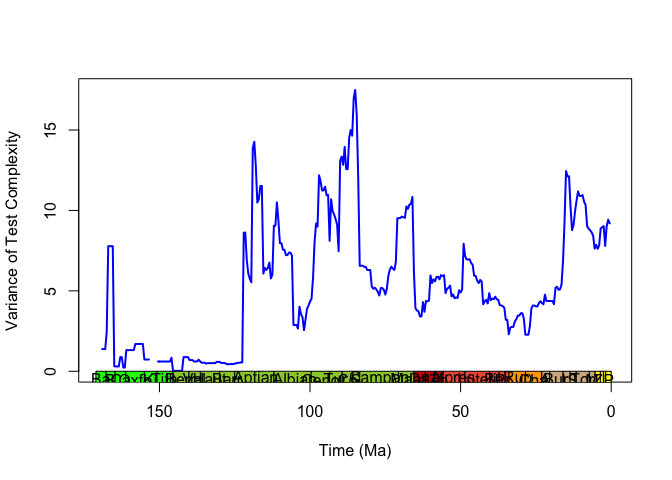
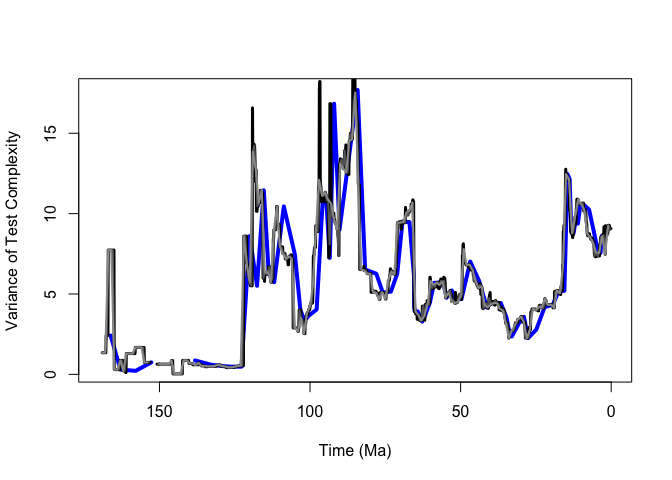
Uploading various contributions to the full range test complexity file inc. several looks at variance vs. something else

diff --git a/EntireRange.md b/EntireRange.md
@@ -225,6 +225,7 @@ So, back to test complexity then.
 ## Test Complexity
 
 ```r
+foram.dataframe->morph
  for(i in inc){
     decostand(morph[,i],method= 'standardize',margin=2,na.rm=T)->morph[,i]
    abs(morph[,i])->morph[,i]
@@ -250,7 +251,7 @@ Test complexity is constructed by standardizing the values within each parameter
 
 
 ```r
-time.var(test.complex.index,morph$origin,morph$extin,.5)->temp
+time.var(test.complex.index,morph$origin,morph$extin,timeresolution.dataframe)->temp
 plot(0,0,
      type='n',
      xlim=c(170,0),
@@ -259,9 +260,251 @@ plot(0,0,
      ylim=c(min(temp[,2],na.rm=T),
             max(temp[,2],na.rm=T))
   )
-  lines(temp[,1],temp[,2],lwd=2,col='blue')
-geotimescale(-2,0)
+  lines(temp[,1],temp[,2],lwd=4,col='blue')
+  time.var(test.complex.index,morph$origin,morph$extin,.1)->temp
+    lines(temp[,1],temp[,2],lwd=3,col='black')
+  time.var(test.complex.index,morph$origin,morph$extin,.5)->temp
+    lines(temp[,1],temp[,2],lwd=2,col='grey40')
+      time.var(test.complex.index,morph$origin,morph$extin,1)->temp
+    lines(temp[,1],temp[,2],lwd=2,col='grey60')
 ```
 
 ![](EntireRange_files/figure-html/variance-1.png)<!-- -->
+
+Trends in the variance are robust across different binning schemes, particularily in the Cenozoic. There appears to be no substantive difference between a biostratigraphic binning scheme (Fraass et al., 2015) or a million year binning scheme (0.1, 0.5, 1 myr tested).
+
+
+```r
+plot(p[1:84],time.var(test.complex.index,morph$origin,morph$extin,timeresolution.dataframe)[1:84,2],
+     xlab="p",ylab="Variance in Test Complexity")
+```
+
+![](EntireRange_files/figure-html/comparison variance extinction-1.png)<!-- -->
+
+```r
+cor.test(p[1:84],time.var(test.complex.index,morph$origin,morph$extin,timeresolution.dataframe)[1:84,2])
+```
+
+```
+## 
+## 	Pearson's product-moment correlation
+## 
+## data:  p[1:84] and time.var(test.complex.index, morph$origin, morph$extin, timeresolution.dataframe)[1:84, p[1:84] and     2]
+## t = -0.52696, df = 82, p-value = 0.5996
+## alternative hypothesis: true correlation is not equal to 0
+## 95 percent confidence interval:
+##  -0.2691373  0.1582722
+## sample estimates:
+##         cor 
+## -0.05809431
+```
+
+```r
+plot(q.family[1:84],time.var(test.complex.index,morph$origin,morph$extin,timeresolution.dataframe)[1:84,2],
+     xlab="q",ylab="Variance in Test Complexity")
+```
+
+![](EntireRange_files/figure-html/comparison variance extinction-2.png)<!-- -->
+
+```r
+cor.test(q[1:84],time.var(test.complex.index,morph$origin,morph$extin,timeresolution.dataframe)[1:84,2])
+```
+
+```
+## 
+## 	Pearson's product-moment correlation
+## 
+## data:  q[1:84] and time.var(test.complex.index, morph$origin, morph$extin, timeresolution.dataframe)[1:84, q[1:84] and     2]
+## t = 0.43845, df = 82, p-value = 0.6622
+## alternative hypothesis: true correlation is not equal to 0
+## 95 percent confidence interval:
+##  -0.1677727  0.2600608
+## sample estimates:
+##        cor 
+## 0.04836204
+```
+
+```r
+plot(p[1:83],diff(time.var(test.complex.index,morph$origin,morph$extin,timeresolution.dataframe)[1:84,2]),
+     xlab="p(1)",ylab="first diff Variance in Test Complexity")
+```
+
+![](EntireRange_files/figure-html/comparison variance extinction-3.png)<!-- -->
+
+```r
+cor.test(p[1:83],diff(time.var(test.complex.index,morph$origin,morph$extin,timeresolution.dataframe)[1:84,2]))
+```
+
+```
+## 
+## 	Pearson's product-moment correlation
+## 
+## data:  p[1:83] and diff(time.var(test.complex.index, morph$origin, morph$extin, p[1:83] and     timeresolution.dataframe)[1:84, 2])
+## t = -0.41944, df = 81, p-value = 0.676
+## alternative hypothesis: true correlation is not equal to 0
+## 95 percent confidence interval:
+##  -0.2596361  0.1708510
+## sample estimates:
+##         cor 
+## -0.04655384
+```
+
+```r
+plot(q[1:83],diff(time.var(test.complex.index,morph$origin,morph$extin,timeresolution.dataframe)[1:84,2]),
+     xlab="q(1)",ylab="first diff Variance in Test Complexity")
+```
+
+![](EntireRange_files/figure-html/comparison variance extinction-4.png)<!-- -->
+
+```r
+cor.test(q[1:83],diff(time.var(test.complex.index,morph$origin,morph$extin,timeresolution.dataframe)[1:84,2]))
+```
+
+```
+## 
+## 	Pearson's product-moment correlation
+## 
+## data:  q[1:83] and diff(time.var(test.complex.index, morph$origin, morph$extin, q[1:83] and     timeresolution.dataframe)[1:84, 2])
+## t = 0.33071, df = 81, p-value = 0.7417
+## alternative hypothesis: true correlation is not equal to 0
+## 95 percent confidence interval:
+##  -0.1803971  0.2504268
+## sample estimates:
+##        cor 
+## 0.03672097
+```
+
+```r
+plot(p[2:84],diff(time.var(test.complex.index,morph$origin,morph$extin,timeresolution.dataframe)[1:84,2]),
+     xlab="p(1)",ylab="first diff Variance in Test Complexity")
+```
+
+![](EntireRange_files/figure-html/comparison variance extinction-5.png)<!-- -->
+
+```r
+cor.test(p[2:84],diff(time.var(test.complex.index,morph$origin,morph$extin,timeresolution.dataframe)[1:84,2]))
+```
+
+```
+## 
+## 	Pearson's product-moment correlation
+## 
+## data:  p[2:84] and diff(time.var(test.complex.index, morph$origin, morph$extin, p[2:84] and     timeresolution.dataframe)[1:84, 2])
+## t = -0.35225, df = 81, p-value = 0.7256
+## alternative hypothesis: true correlation is not equal to 0
+## 95 percent confidence interval:
+##  -0.2526665  0.1780829
+## sample estimates:
+##         cor 
+## -0.03910853
+```
+
+```r
+plot(q[2:84],diff(time.var(test.complex.index,morph$origin,morph$extin,timeresolution.dataframe)[1:84,2]),
+     xlab="q(1)",ylab="first diff Variance in Test Complexity")
+```
+
+![](EntireRange_files/figure-html/comparison variance extinction-6.png)<!-- -->
+
+```r
+cor.test(q[2:84],diff(time.var(test.complex.index,morph$origin,morph$extin,timeresolution.dataframe)[1:84,2]))
+```
+
+```
+## 
+## 	Pearson's product-moment correlation
+## 
+## data:  q[2:84] and diff(time.var(test.complex.index, morph$origin, morph$extin, q[2:84] and     timeresolution.dataframe)[1:84, 2])
+## t = 0.088791, df = 81, p-value = 0.9295
+## alternative hypothesis: true correlation is not equal to 0
+## 95 percent confidence interval:
+##  -0.2062630  0.2250755
+## sample estimates:
+##         cor 
+## 0.009865135
+```
+There is no correlation between q or p in the variance in test complexity. Additionally, one might suspect that the change in variance (like the end Cretaceous) would be correlated with elevated p or q. This is not the case. Variance in test complexity is not synchronous with the macroevolutionary rates at the species-, genus-, or family-levels. p values are also crap.
+
+
+```r
+plot(occurtot[1:84],time.var(test.complex.index,morph$origin,morph$extin,timeresolution.dataframe)[1:84,2],
+     xlab="diversity",ylab="Variance in Test Complexity")
+```
+
+![](EntireRange_files/figure-html/diversity var-1.png)<!-- -->
+
+```r
+cor.test(occurtot[1:84],time.var(test.complex.index,morph$origin,morph$extin,timeresolution.dataframe)[1:84,2])
+```
+
+```
+## 
+## 	Pearson's product-moment correlation
+## 
+## data:  occurtot[1:84] and time.var(test.complex.index, morph$origin, morph$extin, timeresolution.dataframe)[1:84, occurtot[1:84] and     2]
+## t = 4.1454, df = 82, p-value = 8.216e-05
+## alternative hypothesis: true correlation is not equal to 0
+## 95 percent confidence interval:
+##  0.2216222 0.5789680
+## sample estimates:
+##       cor 
+## 0.4162398
+```
+Only valid correlation is diversity ~ variance, which is obvious because the diversity is _n_ in the calculation of the variance. Not terribly intersting. Higher diversity means slightly higher variance.
+
+
+```r
+time.var(test.complex.index,morph$origin,morph$extin,timeresolution.dataframe)->temp
+plot(0,0,
+     type='n',
+     xlim=c(170,0),
+     xlab="Time (Ma)",
+     ylab="Variance of Test Complexity",
+     ylim=c(min(temp[,2],na.rm=T),
+            max(temp[,2],na.rm=T))
+  )
+  lines(temp[,1],temp[,2],lwd=3,col='blue')
+lines(midstage,occurtot/5,col='black',lwd=2)
+```
+
+![](EntireRange_files/figure-html/variance v div-1.png)<!-- -->
+
+
+
+```r
+time.var(test.complex.index,morph$origin,morph$extin,timeresolution.dataframe)->temp
+plot(timeresolution.dataframe[1:length(diff(temp[,1])),2],
+        diff(temp[,2]),
+     type='p',
+     xlim=c(170,0),
+     xlab="Time (Ma)",
+     ylab="first diff Variance of Test Complexity",
+     #ylim=c(-7,7),
+     pch=16,
+     col="green"
+  )
+  abline(v=c(23,34,55,65.5))
+```
+
+![](EntireRange_files/figure-html/diffvariance-1.png)<!-- -->
+
+
+
+```r
+time.var(test.complex.index,morph$origin,morph$extin,timeresolution.dataframe)->temp
+plot(0,0,
+     type='n',
+     xlim=c(170,0),
+     xlab="Time (Ma)",
+     ylab="Variance of Test Complexity",
+     ylim=c(min(temp[,2],na.rm=T),
+            max(temp[,2],na.rm=T))
+  )
+  lines(temp[,1],temp[,2],lwd=3,col='blue')
+lines(midstage,-q.genus*20+10,col='red',lwd=2)
+abline()
+```
+
+![](EntireRange_files/figure-html/variance v genus extinction-1.png)<!-- -->
+However, looking at individual timeperiods variance and extinction appear to be connected, most clearly at the genus level
 
